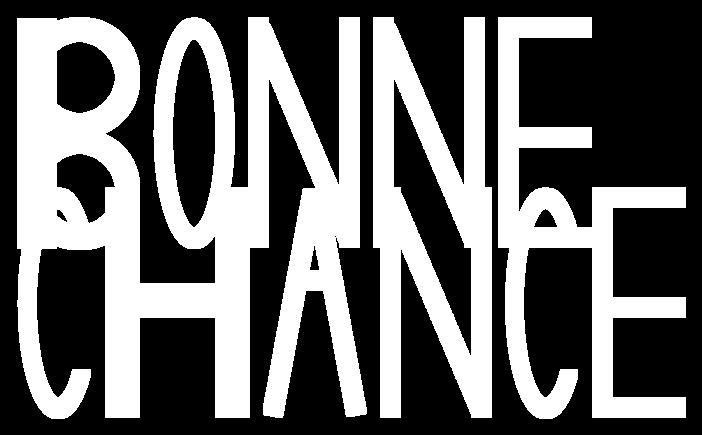
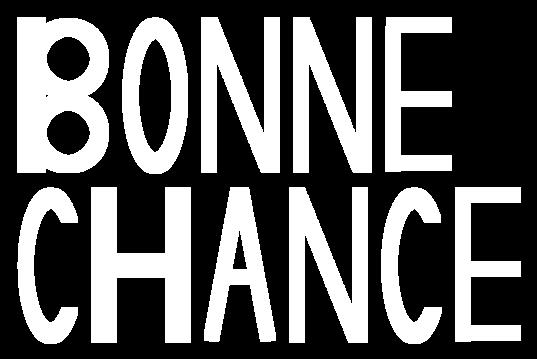
changes

Changed region(s): [[0.0, 0.0306, 0.9832, 0.9805], [0.149, 0.0613, 0.1788, 0.0919]]

diff --git a/src/main/java/Letter/LetterFactory.java b/src/main/java/Letter/LetterFactory.java
@@ -22,7 +22,7 @@ public final class LetterFactory {
      */
     public static BaseShape create_A()  {
         Rectangle firstRectangle = new Rectangle(halfStripeThickness, maxHeight);
-        Rectangle secondRectangle = new Rectangle(halfStripeThickness, maxHeight);
+        Rectangle secondRectangle = firstRectangle.clone();
         Rectangle thirdRectangle = new Rectangle(halfStripeThickness, 20.0);
 
         firstRectangle.rotate(firstRectangle.getCoords(), 0.18);
@@ -46,12 +46,12 @@ public final class LetterFactory {
      */
     public static BaseShape create_B() {
         Rectangle rectangle = new Rectangle(stripeThickness + 3, maxHeight);
-        Circle circle = new Circle(halfMaxHeight * 1.53);
-        Circle secondCircle = new Circle(halfMaxHeight * 1.53);
-        Circle thirdCircle = new Circle((halfMaxHeight*1.53)/1.5);
-        Circle fourthCircle = new Circle((halfMaxHeight*1.53)/1.5);
-        Point2d point = new Point2d(48.0, -19.0);
-        Point2d point2 = new Point2d(48.0, 93.0);
+        Circle circle = new Circle(halfMaxHeight);
+        Circle secondCircle = new Circle(halfMaxHeight);
+        Circle thirdCircle = new Circle((halfMaxHeight)/1.5);
+        Circle fourthCircle = new Circle((halfMaxHeight)/1.5);
+        Point2d point = new Point2d(circle.getMaxX(), -rectangle.getMaxY()/2);
+        Point2d point2 = new Point2d(circle.getMaxX(), rectangle.getMaxY()/2);
 
         circle.translate(circle.getCoords(), point);
         secondCircle.translate(secondCircle.getCoords(), point2);
@@ -72,13 +72,13 @@ public final class LetterFactory {
      * @return BaseShape containing the letter C
      */
     public static BaseShape create_C() {
-        Ellipse ellipse = new Ellipse(halfMaxHeight, maxHeight * 1.5);
+        Ellipse ellipse = new Ellipse(maxWidth, maxHeight);
         Rectangle rectangle = new Rectangle(stripeThickness, maxHeight * 0.6);
 
-        Ellipse ellipseRemove = new Ellipse(halfMaxHeight * 0.65, maxHeight * 1.5 * 0.87);
+        Ellipse ellipseRemove = new Ellipse(maxWidth * 0.65, maxHeight * 0.8);
         ellipse.remove(ellipseRemove);
 
-        Point2d point = new Point2d(halfMaxHeight * 0.3, -20.0);
+        Point2d point = new Point2d(halfMaxHeight * 0.3, 0.0);
         rectangle.translate(rectangle.getCoords(), point);
         ellipse.remove(rectangle);
 
@@ -92,18 +92,20 @@ public final class LetterFactory {
      * @return BaseShape containing the letter E
      */
     public static BaseShape create_E() {
-        Rectangle firstRectangle = new Rectangle(halfStripeThickness,maxHeight);
-        Rectangle secondRectangle = new Rectangle(halfStripeThickness, halfMaxHeight * 0.7);
-        Rectangle thirdRectangle = new Rectangle(halfStripeThickness, halfMaxHeight * 0.7);
-        Rectangle fourthRectangle = new Rectangle(halfStripeThickness, halfMaxHeight * 0.7);
+        Rectangle firstRectangle = new Rectangle(halfStripeThickness,maxHeight - 10);
+        Rectangle secondRectangle = new Rectangle(halfStripeThickness, halfMaxHeight * 0.8);
+        Rectangle thirdRectangle = secondRectangle.clone();
+        Rectangle fourthRectangle = secondRectangle.clone();
 
-        secondRectangle.rotate(secondRectangle.getCoords(), 1.57);
-        thirdRectangle.rotate(thirdRectangle.getCoords(), 1.57);
-        fourthRectangle.rotate(fourthRectangle.getCoords(), 1.57);
+        double rotation = 1.57;
+        secondRectangle.rotate(secondRectangle.getCoords(), rotation);
+        thirdRectangle.rotate(thirdRectangle.getCoords(), rotation);
+        fourthRectangle.rotate(fourthRectangle.getCoords(), rotation);
 
-        Point2d point = new Point2d(80.0 * 0.7, -70.0);
-        Point2d point2 = new Point2d(80.0 * 0.7, 40.0);
-        Point2d point3 = new Point2d(80.0 * 0.7, 140.0);
+        double yTranslation = secondRectangle.getMaxX() - 5;
+        Point2d point = new Point2d(yTranslation, -firstRectangle.getMaxY() - 5);
+        Point2d point2 = new Point2d(yTranslation, 0.0);
+        Point2d point3 = new Point2d(yTranslation, firstRectangle.getMaxY() - 5);
         secondRectangle.translate(secondRectangle.getCoords(), point);
         thirdRectangle.translate(thirdRectangle.getCoords(), point2);
         fourthRectangle.translate(fourthRectangle.getCoords(), point3);
@@ -124,12 +126,12 @@ public final class LetterFactory {
     public static BaseShape create_H() {
         Rectangle firstRectangle = new Rectangle(stripeThickness, maxHeight);
         Rectangle secondRectangle = new Rectangle(stripeThickness, halfMaxHeight);
-        Rectangle thirdRectangle = new Rectangle(stripeThickness , maxHeight);
-        Point2d translationVector = new Point2d(70.0, 30.0);
+        Rectangle thirdRectangle = firstRectangle.clone();
+        Point2d translationVector = new Point2d(secondRectangle.getMaxY(), 0.0);
         secondRectangle.rotate(secondRectangle.getCoords(), 1.57);
         secondRectangle.translate(secondRectangle.getCoords(), translationVector);
 
-        Point2d secondTranslationVector = new Point2d(110.0, 0.0);
+        Point2d secondTranslationVector = new Point2d(secondRectangle.getMaxX(), 0.0);
         thirdRectangle.translate(thirdRectangle.getCoords(), secondTranslationVector);
 
         BaseShape shape = new BaseShape();
@@ -145,12 +147,12 @@ public final class LetterFactory {
      */
     public static BaseShape create_N() {
         Rectangle firstRectangle = new Rectangle(halfStripeThickness, maxHeight);
-        Rectangle secondRectangle = new Rectangle(halfStripeThickness, maxHeight + 3);
-        Rectangle thirdRectangle = new Rectangle(halfStripeThickness , maxHeight);
-        Point2d translationVector = new Point2d(32.0, 5.0);
-        secondRectangle.rotate(secondRectangle.getCoords(), -0.40);
+        Rectangle secondRectangle = new Rectangle(halfStripeThickness, maxHeight + 8);
+        Rectangle thirdRectangle = firstRectangle.clone();
+        Point2d translationVector = new Point2d(halfMaxWidth, 0.0);
+        secondRectangle.rotate(secondRectangle.getCoords(), -0.38);
         secondRectangle.translate(secondRectangle.getCoords(), translationVector);
-        Point2d point = new Point2d(91.0, 0.0);
+        Point2d point = new Point2d(secondRectangle.getMaxX(), 0.0);
         thirdRectangle.translate(thirdRectangle.getCoords(), point);
         BaseShape shape = new BaseShape();
         shape.add(firstRectangle);
@@ -164,8 +166,8 @@ public final class LetterFactory {
      * @return BaseShape containing the letter O
      */
     public static BaseShape create_O() {
-        Ellipse ellipse = new Ellipse(halfMaxHeight, maxHeight * 1.5);
-        Ellipse ellipseRemove = new Ellipse(halfMaxHeight * 0.65, maxHeight * 1.5 * 0.87);
+        Ellipse ellipse = new Ellipse(maxWidth, maxHeight);
+        Ellipse ellipseRemove = new Ellipse(maxWidth * 0.65, maxHeight * 0.8);
         ellipse.remove(ellipseRemove);
         BaseShape shape = new BaseShape();
         shape.add(ellipse);

diff --git a/src/main/java/Point/Point2d.java b/src/main/java/Point/Point2d.java
@@ -38,8 +38,7 @@ public class Point2d extends AbstractPoint {
      */
     @Override
     public Point2d translate(Double[] translateVector) {
-        vector[X] += translateVector[X];
-        vector[Y] += translateVector[Y];
+        PointOperator.translate(this.vector, translateVector);
         return this;
     }
 
@@ -49,8 +48,7 @@ public class Point2d extends AbstractPoint {
      * @return Translated point
      */
     public Point2d translate(Point2d translateVector) {
-        vector[X] += translateVector.vector[translateVector.X];
-        vector[Y] += translateVector.vector[translateVector.Y];
+        PointOperator.translate(this.vector, translateVector.vector);
         return this;
     }
 
@@ -61,11 +59,7 @@ public class Point2d extends AbstractPoint {
      */
     @Override
     public Point2d rotate(Double[][] rotationMatrix) {
-        double newX = rotationMatrix[0][0] * vector[X] + rotationMatrix[0][1] * vector[Y];
-        double newY = rotationMatrix[1][0] * vector[X] + rotationMatrix[1][1] * vector[Y];
-
-        vector[X] = newX;
-        vector[Y] = newY;
+        PointOperator.rotate(this.vector, rotationMatrix);
         return this;
     }
 
@@ -77,12 +71,12 @@ public class Point2d extends AbstractPoint {
     public Point2d rotate(Double angle) {
         double cosAngle = Math.cos(angle);
         double sinAngle = Math.sin(angle);
+        double subtract = -1.0;
 
-        double newX = vector[X] * cosAngle - vector[Y] * sinAngle;
-        double newY = vector[Y] * cosAngle + vector[X] * sinAngle;
+        Double[][] rotationMatrix = {{cosAngle, subtract * sinAngle}, {sinAngle, cosAngle}};
 
-        vector[X] = newX;
-        vector[Y] = newY;
+        this.rotate(rotationMatrix);
+
         return this;
     }
 
@@ -93,8 +87,7 @@ public class Point2d extends AbstractPoint {
      */
     @Override
     public Point2d divide(Double divider) {
-        vector[X] /= divider;
-        vector[Y] /= divider;
+        PointOperator.divide(this.vector, divider);
         return this;
     }
 
@@ -105,8 +98,7 @@ public class Point2d extends AbstractPoint {
      */
     @Override
     public Point2d multiply(Double multiplier) {
-        vector[X] *= multiplier;
-        vector[Y] *= multiplier;
+        PointOperator.multiply(this.vector, multiplier);
         return this;
     }
 
@@ -117,8 +109,7 @@ public class Point2d extends AbstractPoint {
      */
     @Override
     public Point2d add(Double adder) {
-        vector[X] += adder;
-        vector[Y] += adder;
+        PointOperator.add(this.vector, adder);
         return this;
     }
 

diff --git a/src/main/java/Point/PointOperator.java b/src/main/java/Point/PointOperator.java
@@ -24,14 +24,14 @@ public final class PointOperator {
      * @param rotationMatrix Matrix by which to rotate
      */
     public static void rotate(Double[] vector, Double[][] rotationMatrix) {
+        Double[] sum = new Double[vector.length];
+        Arrays.setAll(sum, i -> 0.0);
         for (int i = 0; i < vector.length; i++) {
-            double sum = 0;
-            for (int j = 0; j < rotationMatrix.length; j++) {
-                sum += rotationMatrix[i][j] * vector[j];
+            for (int j = 0; j < vector.length; j++) {
+                sum[i] += rotationMatrix[i][j] * vector[j];
             }
-            vector[i] = sum;
         }
-
+        System.arraycopy(sum, 0, vector, 0, vector.length);
     }
 
     /** TODO

diff --git a/src/main/java/Shape/Ellipse.java b/src/main/java/Shape/Ellipse.java
@@ -11,9 +11,9 @@ public class Ellipse extends BaseShape {
      * @param heightDiameter Height of the Ellipse
      */
     public Ellipse(Double widthDiameter, Double heightDiameter) {
-        for(double i = -widthDiameter/2; i < widthDiameter; i+=0.5)
+        for(double i = -widthDiameter/2; i < widthDiameter/2; i+=0.5)
         {
-            for(double j = -heightDiameter/2; j < heightDiameter; j+= 0.5){
+            for(double j = -heightDiameter/2; j < heightDiameter/2; j+= 0.5){
                 double equation = (Math.pow(i,2))/Math.pow(widthDiameter/2,2) + (Math.pow(j,2))/Math.pow(heightDiameter/2,2);
                 if(equation <= 1){
                     Point2d point = new Point2d(i, j);

diff --git a/src/main/java/Shape/Rectangle.java b/src/main/java/Shape/Rectangle.java
@@ -11,9 +11,9 @@ public class Rectangle extends BaseShape {
      * @param height Height of the rectangle
      */
     public Rectangle(Double width, Double height) {
-        for(double i = -width/2; i < width; i += 0.5)
+        for(double i = -width/2; i < width/2; i += 0.5)
         {
-            for(double j = -height/2; j < height; j++)
+            for(double j = -height/2; j < height/2; j++)
             {
                 Point2d point = new Point2d(i, j);
                 this.add(point);

diff --git a/src/test/java/Letter/LetterTest.java b/src/test/java/Letter/LetterTest.java
@@ -18,6 +18,7 @@ public class LetterTest {
         tesseract.setLanguage("fra");
 
         LetterPlacer letterPlacer = new LetterPlacer();
+
         letterPlacer.placeNext('B');
         letterPlacer.placeNext('O');
         letterPlacer.placeNext('N');
